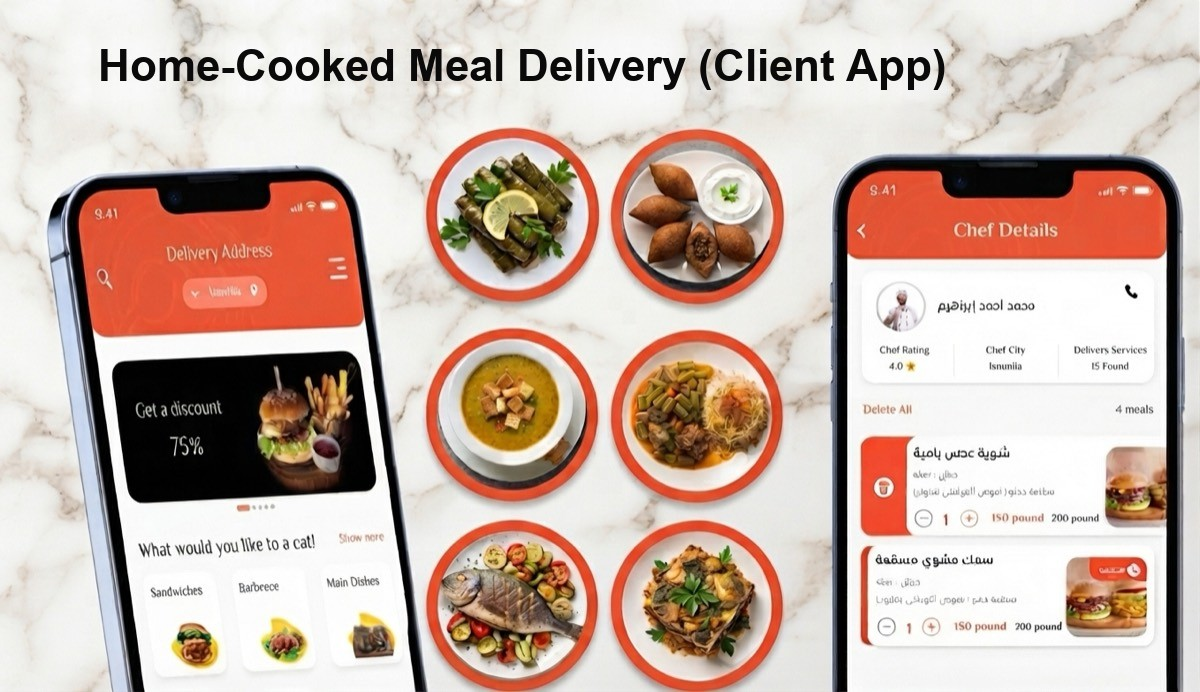
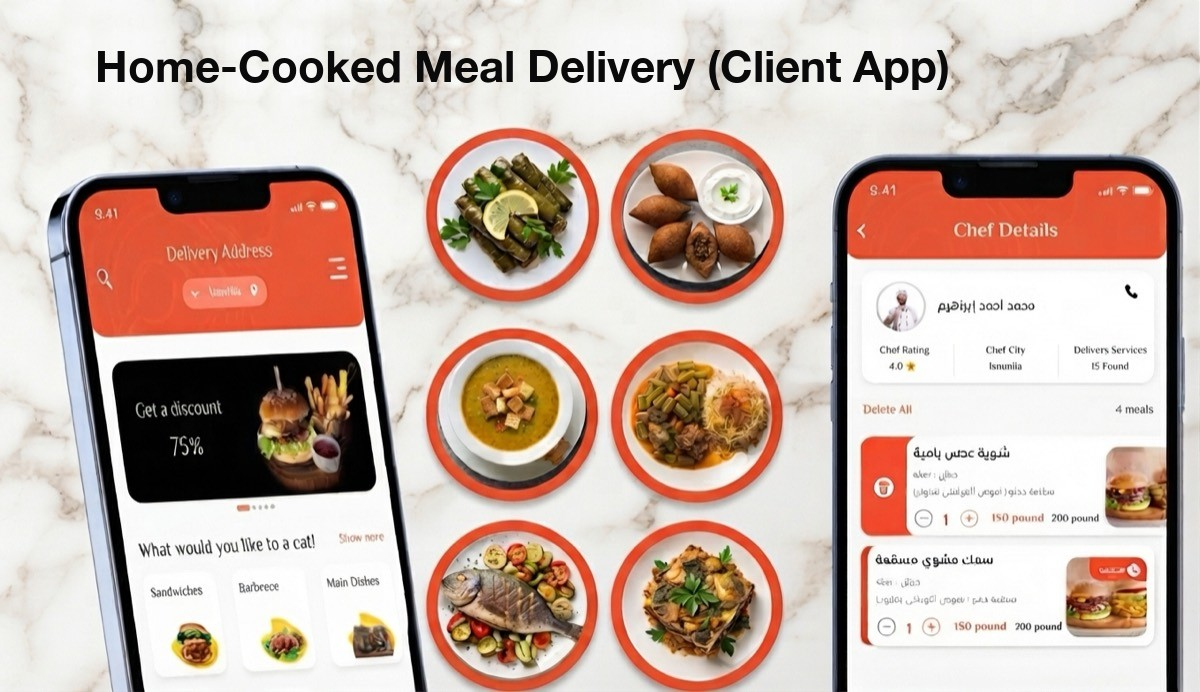
portfolio: fully localized gallery images, better font/centering
- Switch on-image text rendering to Helvetica Neue Bold (was Arial
  Bold) — cleaner, matches the marketing-image aesthetic much better
- Fix mis-centered/stray-fragment text: erase regions now clear
  Arabic ascenders/diacritics fully, and fill patches no longer
  overlap decorative icons (was bleeding icon-colored dots into the
  redrawn text)
- Generate a localized image per site language (en/de/fr/es/it/pt/
  ro/tr/ru), not just English — Gallery.tsx now picks the on-image
  text matching the active locale, Arabic still shows the original

Changed region(s): [[0.0617, 0.0303, 0.8017, 0.1517]]

diff --git a/src/components/Gallery.tsx b/src/components/Gallery.tsx
@@ -5,9 +5,10 @@ import { useReveal } from '../hooks/useReveal';
 type Shot = { base: string; key: string };
 
 // Each image has an Arabic original (the real marketing render, on-image
-// text included) and an "-en" twin with only that on-image text redrawn in
-// English — everything else (screenshots, photos, layout) is identical.
-// Arabic viewers see the original; every other locale sees the English one.
+// text included) and a same-layout twin per other locale with only that
+// on-image text redrawn in that language — screenshots, photos, and layout
+// are identical, only the overlay headline/caption text changes.
+const LOCALIZED_LANGS = ['en', 'de', 'fr', 'es', 'it', 'pt', 'ro', 'tr', 'ru'];
 const SHOTS: Shot[] = [
   { base: 'chef-ruler-client', key: 'chefRulerClient' },
   { base: 'chef-ruler-provider', key: 'chefRulerProvider' },
@@ -24,8 +25,9 @@ export default function Gallery() {
   const { ref, visible } = useReveal<HTMLDivElement>();
   const [openIndex, setOpenIndex] = useState<number | null>(null);
 
+  const lang = LOCALIZED_LANGS.includes(i18n.language) ? i18n.language : 'en';
   const isArabic = i18n.language === 'ar';
-  const srcFor = (base: string) => `/images/gallery/${base}${isArabic ? '' : '-en'}.jpg`;
+  const srcFor = (base: string) => `/images/gallery/${base}${isArabic ? '' : `-${lang}`}.jpg`;
 
   const open = openIndex !== null ? SHOTS[openIndex] : null;
 
